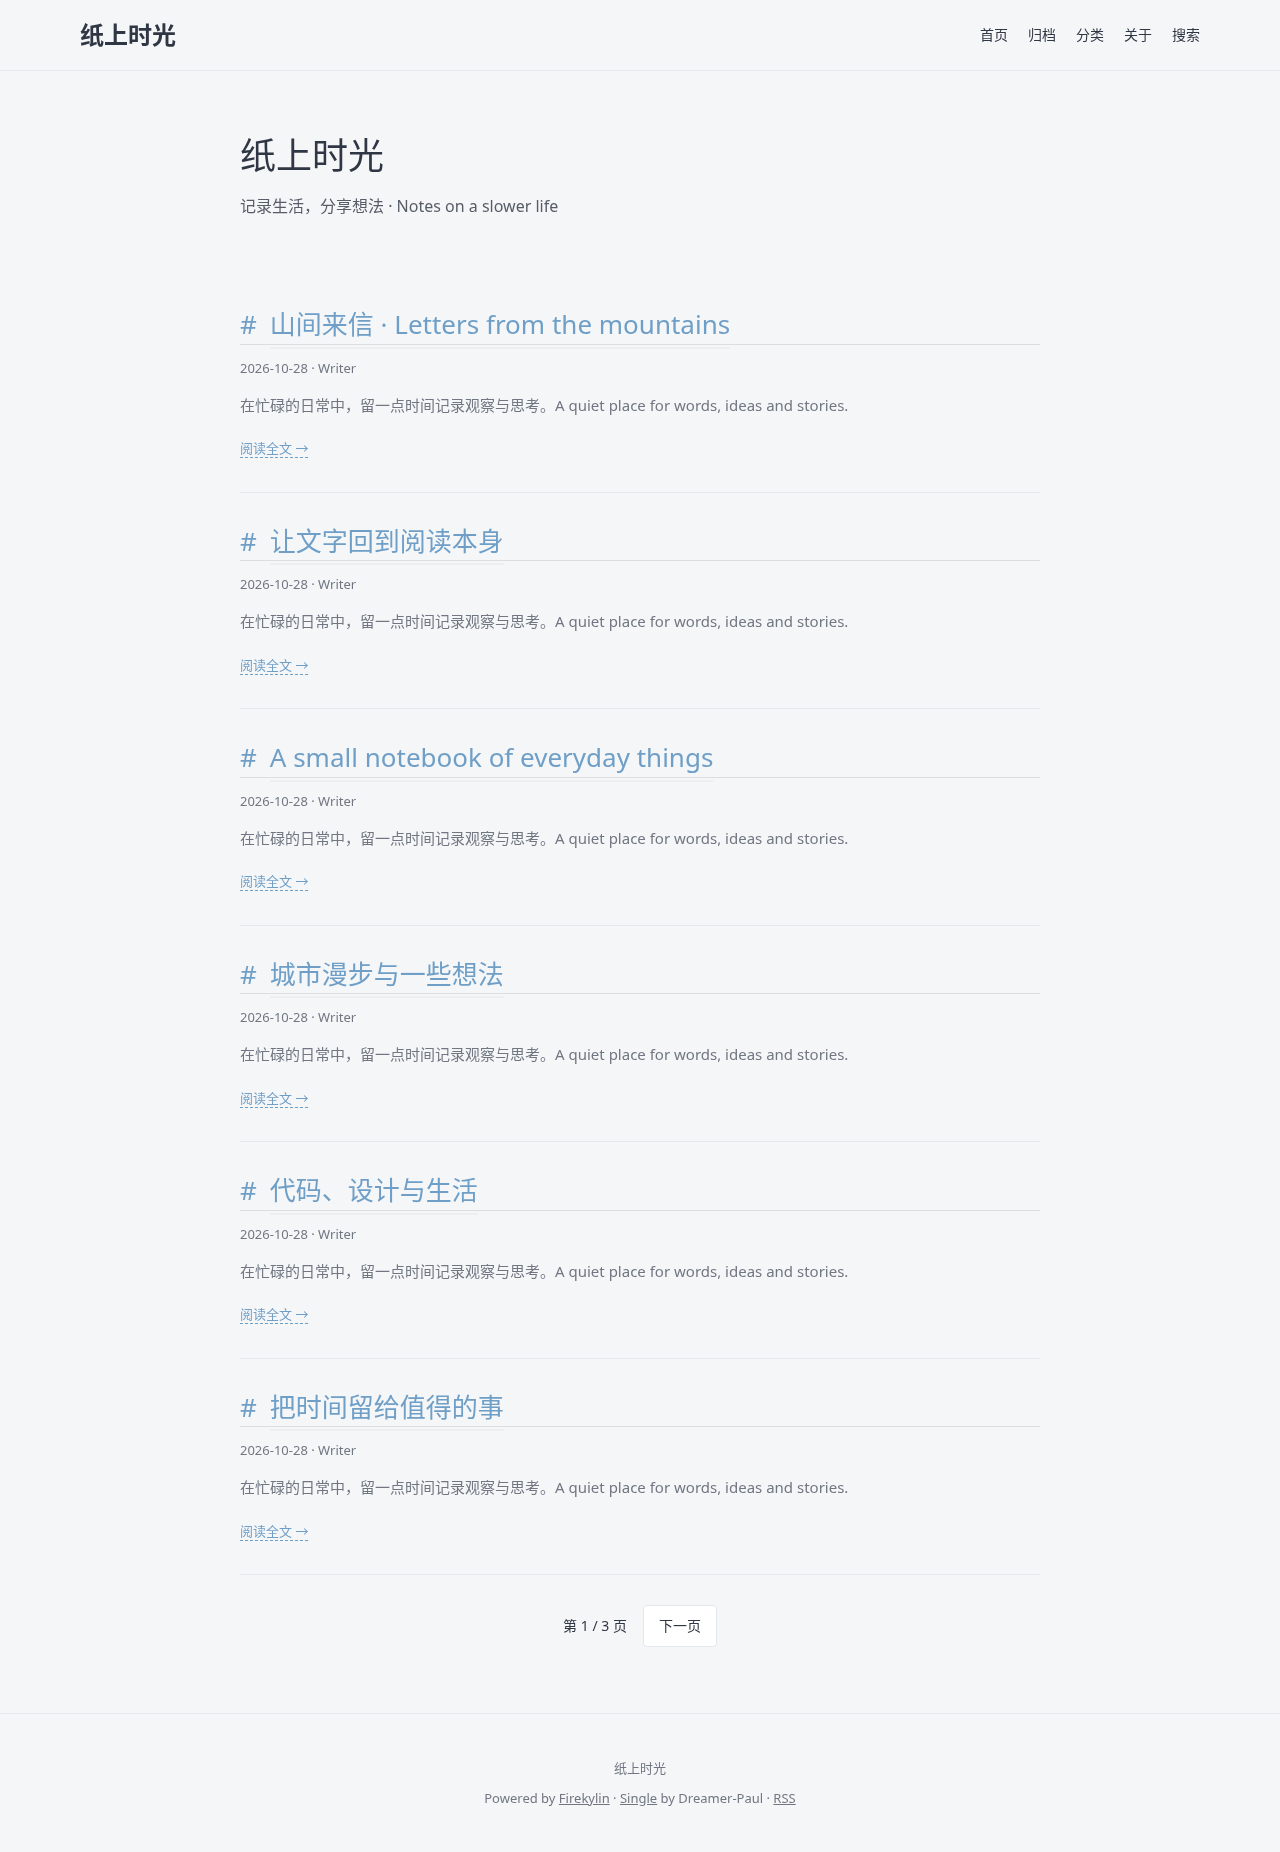
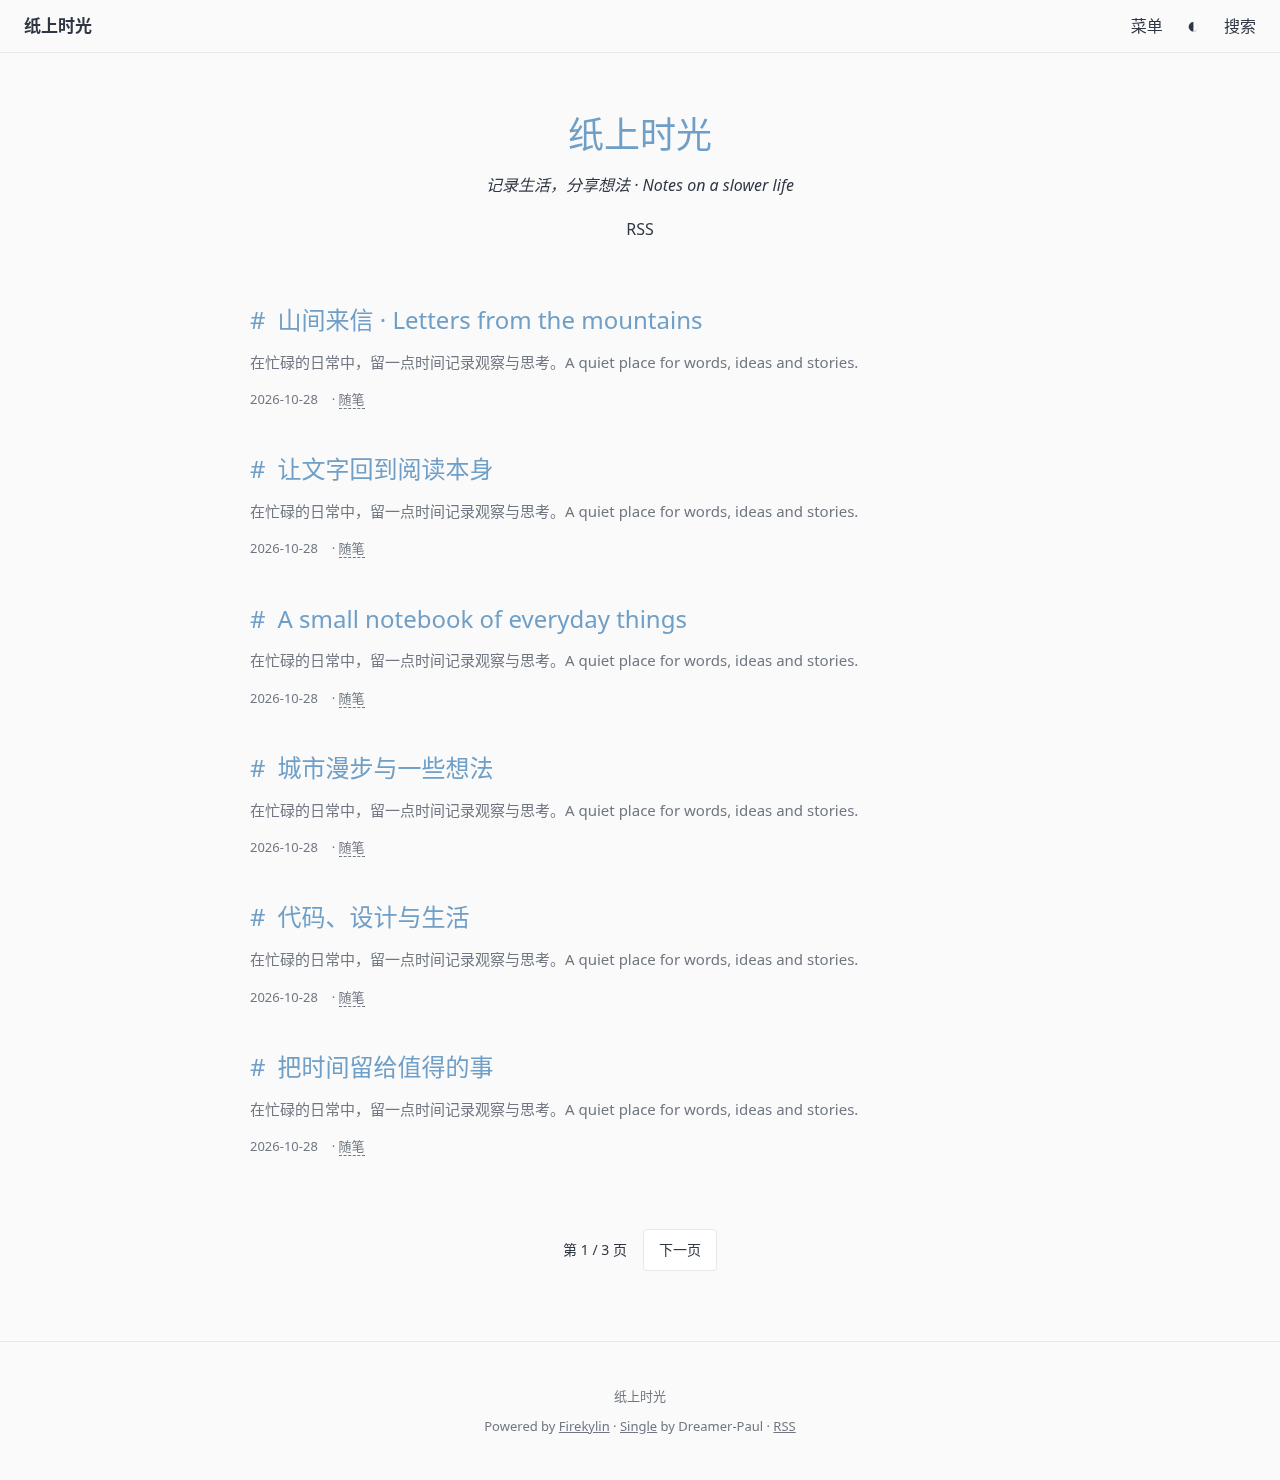
fix(single): restore source intro, feed order and reader controls

diff --git a/packages/single/res/css/firekylin.css b/packages/single/res/css/firekylin.css
@@ -511,7 +511,168 @@ body.fk-dark {
 }
 
 /* Keep configured dark colors after theme-specific defaults. */
-body.fk-theme.fk-dark {--fk-bg:#191b20;--fk-paper:#252830;--fk-ink:#e4e6ec;--fk-muted:#a6adb8;--fk-line:#3b414b}
-.fk-theme.fk-dark .entry-title {color:var(--fk-ink)}
+body.fk-theme.fk-dark {
+  --fk-bg: #191b20;
+  --fk-paper: #252830;
+  --fk-ink: #e4e6ec;
+  --fk-muted: #a6adb8;
+  --fk-line: #3b414b;
+}
+.fk-theme.fk-dark .entry-title {
+  color: var(--fk-ink);
+}
 
-.fk-theme.fk-dark .entry-more, .fk-theme.fk-dark .entry-content a {color:#a9caff}
+.fk-theme.fk-dark .entry-more,
+.fk-theme.fk-dark .entry-content a {
+  color: #a9caff;
+}
+
+/* Single: source home-title and lightweight typography; actual header controls. */
+body.fk-theme {
+  --fk-bg: #fafafa;
+}
+.single-background {
+  position: fixed;
+  inset: 0;
+  width: 100%;
+  height: 100%;
+  object-fit: cover;
+  opacity: 0.1;
+  z-index: -1;
+}
+.fk-theme .single-header {
+  position: fixed;
+  inset: 0 0 auto;
+  z-index: 20;
+  display: flex;
+  justify-content: space-between;
+  padding: 12px 24px;
+  min-height: 50px;
+  border-bottom: 1px solid var(--fk-line);
+}
+.fk-theme .single-header .fk-brand {
+  font-size: 17px;
+}
+.single-actions {
+  display: flex;
+  align-items: center;
+  gap: 18px;
+}
+.single-actions button {
+  background: none;
+  border: 0;
+  color: inherit;
+  font-size: 22px;
+  cursor: pointer;
+}
+.single-actions a {
+  color: inherit;
+  text-decoration: none;
+}
+.single-menu summary {
+  cursor: pointer;
+  list-style: none;
+}
+.single-menu .fk-nav {
+  position: absolute;
+  right: 0;
+  top: 50px;
+  width: 220px;
+  background: var(--fk-paper);
+  border: 1px solid var(--fk-line);
+  padding: 20px;
+  display: flex;
+  flex-direction: column;
+  align-items: flex-start;
+}
+.fk-theme .home-title {
+  text-align: center;
+  padding: 110px 20px 20px;
+  margin: 0 auto;
+  max-width: 780px;
+}
+.fk-theme .home-title h1 {
+  font-size: 36px;
+  color: var(--fk-accent);
+}
+.fk-theme .home-title span {
+  font-style: italic;
+  margin-bottom: 16px;
+}
+.fk-theme .fk-shell {
+  max-width: 780px;
+  margin: 40px auto;
+}
+.fk-theme .entry-card {
+  margin: 0 0 42px;
+  border: 0;
+  padding: 0;
+}
+.fk-theme .entry-title {
+  font-size: 24px;
+  border: 0;
+  margin: 0 0 10px;
+}
+.fk-theme .entry-title a {
+  text-decoration: none;
+  border: 0;
+}
+.fk-theme .entry-title a:before {
+  content: none;
+}
+.fk-theme .entry-excerpt {
+  margin: 0 0 12px;
+  min-height: 0;
+}
+.fk-theme .entry-meta {
+  margin: 0;
+  font-size: 13px;
+}
+.fk-theme .single-detail {
+  padding: 60px 0 0;
+  background: none;
+  box-shadow: none;
+  border: 0;
+}
+.single-post-title {
+  margin: 0 0 32px;
+}
+.single-detail .post-title {
+  font-size: 30px;
+  font-weight: 400;
+}
+.single-detail .post-author {
+  display: block;
+  padding: 20px 24px;
+  margin: 30px 0;
+  background: var(--fk-paper);
+  border-left: 3px solid var(--fk-accent);
+}
+.single-detail .post-author h4 {
+  margin: 0 0 8px;
+}
+.single-detail .post-author p {
+  margin: 0;
+  line-height: 1.7;
+}
+@media (max-width: 600px) {
+  .fk-theme .home-title h1 {
+    font-size: 28px;
+  }
+  .fk-theme .single-header {
+    padding: 12px 16px;
+  }
+  .fk-theme .fk-shell {
+    width: calc(100% - 40px);
+  }
+  .fk-theme .entry-title {
+    font-size: 22px;
+  }
+  .single-detail .post-title {
+    font-size: 26px;
+  }
+}
+.fk-theme .home-title {
+  width: 100%;
+}
+.fk-theme .entry-copy{padding:0}

diff --git a/scripts/check-single-browser.js b/scripts/check-single-browser.js
@@ -1,0 +1,50 @@
+const assert = require("node:assert/strict");
+const { chromium } = require("playwright-core");
+const server = require("./preview-ports")();
+(async () => {
+  await new Promise((r) => server.listen(0, "127.0.0.1", r));
+  const browser = await chromium.launch({
+    headless: true,
+    ...(process.env.CHROMIUM_PATH
+      ? { executablePath: process.env.CHROMIUM_PATH }
+      : {}),
+  });
+  try {
+    for (const width of [1280, 390]) {
+      const page = await browser.newPage({ viewport: { width, height: 900 } });
+      await page.goto(`http://127.0.0.1:${server.address().port}/single/index`);
+      await page.locator(".single-menu summary").click();
+      assert.equal(await page.locator(".fk-nav").isVisible(), true);
+      assert.equal(await page.locator(".single-menu").getAttribute("open"), "");
+      await page.locator("[data-single-dark]").click();
+      assert.equal(
+        await page.locator("[data-single-dark]").getAttribute("aria-pressed"),
+        "true",
+      );
+      await page.reload();
+      assert.equal(
+        await page.locator("[data-single-dark]").getAttribute("aria-pressed"),
+        "true",
+      );
+      const g = await page.evaluate(() => {
+        const r = (s) => document.querySelector(s).getBoundingClientRect();
+        return {
+          excerpt: r(".entry-excerpt").bottom,
+          meta: r(".entry-meta").top,
+        };
+      });
+      assert.ok(g.excerpt <= g.meta);
+      await page.close();
+    }
+    console.log(
+      "Single: menu disclosure, persistent dark switch, excerpt/date order at desktop/mobile passed",
+    );
+  } finally {
+    await browser.close();
+    server.close();
+  }
+})().catch((e) => {
+  console.error(e);
+  server.close();
+  process.exitCode = 1;
+});

diff --git a/test/single.test.js b/test/single.test.js
@@ -1,0 +1,28 @@
+const test = require("node:test"),
+  assert = require("node:assert/strict");
+const { render } = require("./port-fixture");
+test("Single preserves excerpt-before-date and separates detail from home introduction", async () => {
+  const html = await render("single", "index");
+  assert.ok(html.indexOf("entry-title") < html.indexOf("entry-excerpt"));
+  assert.ok(html.indexOf("entry-excerpt") < html.indexOf("entry-meta"));
+  assert.match(html, /home-title/);
+  const post = await render("single", "post", {
+    config: { author_text: "About <script>author</script>" },
+  });
+  assert.doesNotMatch(post, /class="fk-hero home-title"/);
+  assert.match(post, /single-post-title/);
+  assert.match(post, /class="post-author"/);
+  assert.match(post, /&lt;script&gt;author/);
+});
+test("Single background is configurable without accepting unsafe URLs", async () => {
+  assert.match(
+    await render("single", "index", { config: { background: "/image.jpg" } }),
+    /class="single-background" src="\/image.jpg"/,
+  );
+  assert.doesNotMatch(
+    await render("single", "index", {
+      config: { background: "javascript:bad" },
+    }),
+    /class="single-background"/,
+  );
+});

diff --git a/scripts/preview-ports.js b/scripts/preview-ports.js
@@ -8,6 +8,7 @@ function server() {
   return http.createServer(async (req,res) => {
     try {
       const url = new URL(req.url,'http://localhost');
+      if(url.pathname==='/themes/single/res/js/single.js'){res.setHeader('Content-Type','text/javascript');return res.end(fs.readFileSync(path.join(__dirname,'../packages/single/res/js/single.js')));}
       const asset = url.pathname.match(/^\/(?:themes|theme)\/([a-z0-9-]+)\/res\/css\/(upstream|firekylin)\.css$/);
       if(asset && themes.includes(asset[1])) {res.setHeader('Content-Type','text/css');return res.end(fs.readFileSync(path.join(__dirname,'../packages',asset[1],'res/css',asset[2]+'.css')));}
       const [theme,page='index'] = url.pathname.slice(1).split('/');

diff --git a/packages/single/res/js/single.js b/packages/single/res/js/single.js
@@ -1,0 +1,21 @@
+/* Original Firekylin adapter controls, MIT. */
+(() => {
+  const button = document.querySelector("[data-single-dark]");
+  function apply(dark) {
+    document.body.classList.toggle("fk-dark", dark);
+    document.body.classList.toggle("dark-theme", dark);
+    button.setAttribute("aria-pressed", String(dark));
+  }
+  try {
+    const saved = localStorage.getItem("single-color-mode");
+    if (saved) apply(saved === "dark");
+  } catch {}
+  button.hidden = false;
+  button.addEventListener("click", () => {
+    const dark = !document.body.classList.contains("fk-dark");
+    apply(dark);
+    try {
+      localStorage.setItem("single-color-mode", dark ? "dark" : "light");
+    } catch {}
+  });
+})();

diff --git a/packages/single/README.md b/packages/single/README.md
@@ -12,7 +12,7 @@ and third-party resource audit. Original license/attribution materials are retai
 Copy this directory into `themes/single` (independent project) or
 `www/theme/single` (legacy/core installation), then select it in Appearance.
 Requires Firekylin >=2.16.0 with Eta/Widgets; verified against core `99bbdcb`.
-No PHP, npm install, compilation or theme JavaScript is required at runtime.
+No PHP, npm install or compilation is needed. A local script persists the visitor color preference; menu disclosure works without JavaScript.
 
 ## Supported
 
@@ -31,7 +31,7 @@ Navigation stays available without JavaScript. Mobile layouts collapse sidebars.
 ## Differences from Typecho
 
 This is a first Firekylin adaptation of the reading layout, not a PHP compatibility
-layer. Unsupported upstream features: original JavaScript menu/search/night toggle, custom social HTML and Typecho shortcodes; server-configured dark colors replace the toggle.
+layer. Unsupported upstream features: Typecho shortcodes, custom raw social HTML, timed night-mode scheduling, copy notices and admin edit links. Search uses the native search page; the menu and persistent night toggle are implemented.
 Search uses Firekylin `keyword`; comments use native Waline instead of Typecho
 comment forms. No analytics, paid feature, external update request, advertising
 or credential-dependent integration is enabled by the theme.
@@ -51,3 +51,10 @@ Selection exclusions: Pinghsu/Maupassant were already ported; Clarity is reserve
 for the user. Miracles has additional custom-license restrictions, initial has no
 explicit license, and Akina's referenced earlier WordPress source could not be
 resolved for license-chain verification. They are not included in this batch.
+
+Source-specific settings: `background` adds a faint full-screen background image;
+`author_text` adds an escaped author introduction under article content. Homepage
+uses the source centered title and title/excerpt/date sequence; article pages omit
+the homepage introduction and use separate title/content/author sections. Native
+details replaces the original JavaScript menu. Categories/comment counts display
+only when the core archive provides them. See VISUAL-COMPARISON.md.

diff --git a/packages/single/VISUAL-COMPARISON.md b/packages/single/VISUAL-COMPARISON.md
@@ -1,0 +1,17 @@
+# Single source comparison
+
+Pinned revision: `9665079d39b21640a0121786769ce2c3de303155`.
+[Upstream screenshot](https://github.com/Dreamer-Paul/Single/blob/9665079d39b21640a0121786769ce2c3de303155/screenshot.png)
+was inspected but is deliberately blurred promotional artwork; it is insufficient
+for pixel comparisons. Source `header.php`, `index.php`, `post.php` and
+`static/single.css` establish centered home title, fixed light header, expandable
+menu, title/excerpt/date feed, unboxed article content and optional author bio.
+
+Desktop (1280px) and mobile (390px) renders were inspected. Tests cover the native
+menu, persistent night switch, feed element order, safe background and escaped
+bio, plus existing route/search/pagination/protected content checks. The first
+mobile run found a stale fixed-width home intro; it was corrected before delivery.
+
+No live Typecho instance or visual pixel-diff is claimed. Original Kico/icon
+runtimes, automatic night schedule, copy notice, admin-edit links and arbitrary
+social HTML are not ported. Reading/navigation retain no-JS fallbacks.
